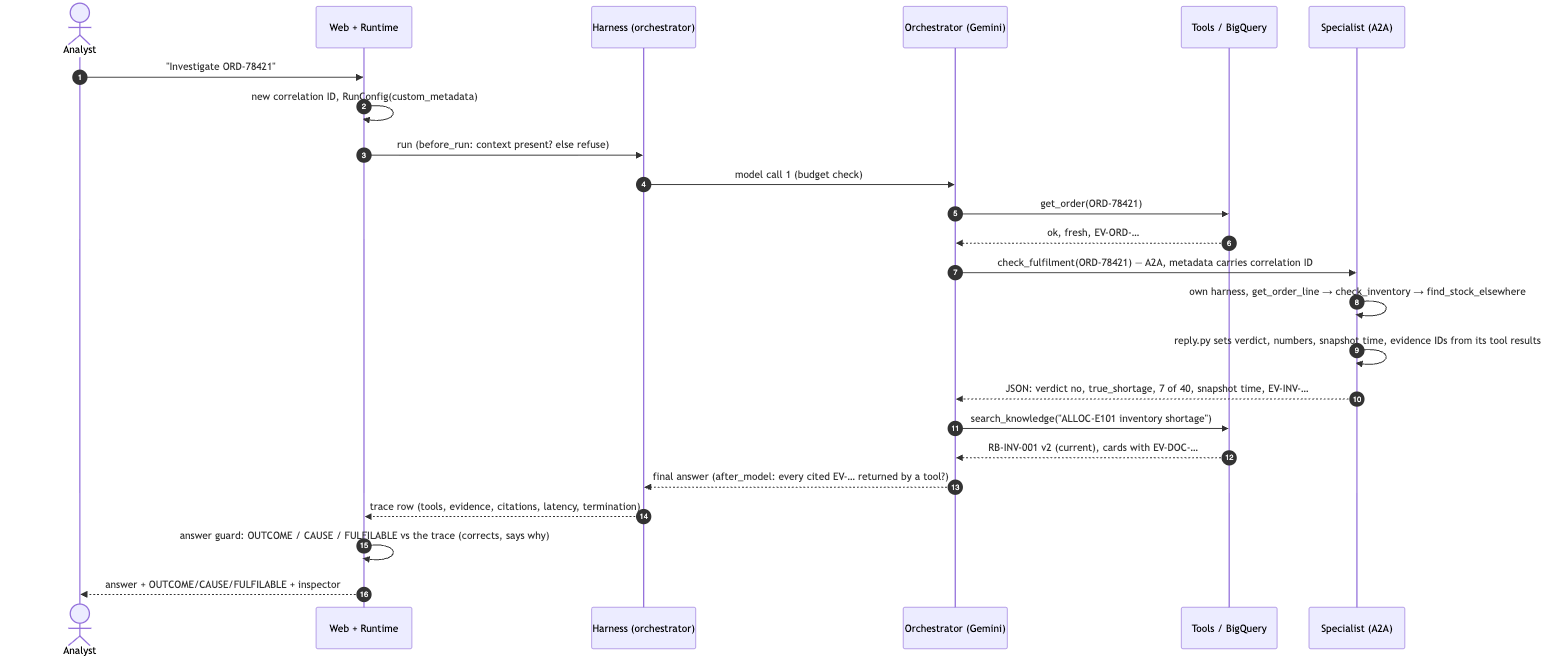
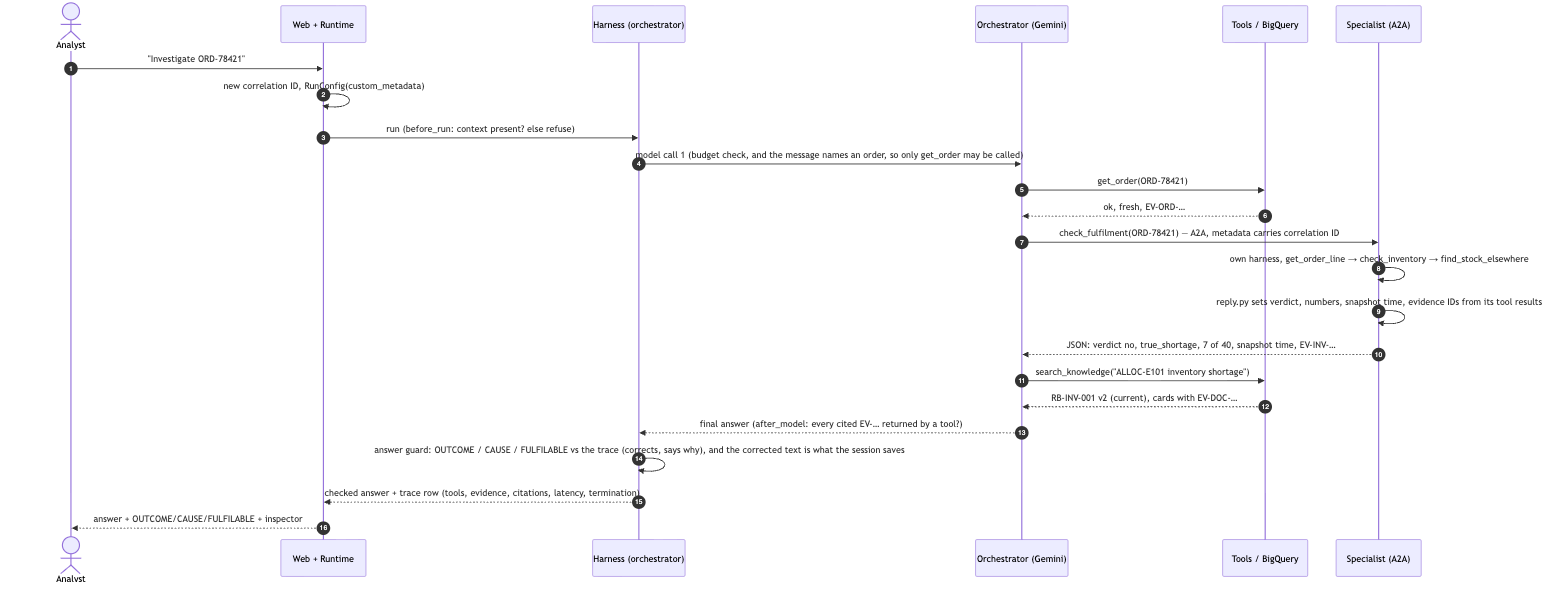
Capstone 02: fresh lookup for a named order, corrected answer is what the session keeps
- fresh_order_lookup (before_model_callback): a message that names an order may only
  call get_order until it has run in that turn; a repeated "Investigate ORD-…" was
  answered from memory with old stock figures
- Answer guard runs as the orchestrator's after_model_callback, so the saved event,
  the session replay and the next turn's history carry the corrected header
- Two offline tests (144 pass), both confirmed on the live app
- Docs: evaluation report, decision sheet, readiness, request-flow diagram;
  number check in answer text recorded as a known gap

diff --git a/1_Basic/session-20-5thNov-Capstone-1/capstone/capstone-submissions/retail-control-tower/orchestrator/order_exception_agent/agent.py b/1_Basic/session-20-5thNov-Capstone-1/capstone/capstone-submissions/retail-control-tower/orchestrator/order_exception_agent/agent.py
@@ -20,6 +20,7 @@ sends no correlation ID, so the harness refuses the request (fails closed).
 from __future__ import annotations
 
 import hashlib
+import re
 
 from google.adk.agents import Agent
 from google.adk.apps import App
@@ -31,6 +32,7 @@ from google.genai import types
 from common import config
 from common.harness import HarnessPlugin
 from orchestrator.a2a_client import make_check_fulfilment
+from orchestrator.answer_guard import make_after_model_check
 from orchestrator.tools import (compare_before_after_change, escalate_case_tool, explain_decline, get_carrier_events,
                                 get_order, get_recent_changes, get_warehouse_events, remember_preference,
                                 search_knowledge)
@@ -56,6 +58,10 @@ How to investigate
    A follow-up about stock, reservations or whether it can ship (e.g. "how many units are
    reserved?") needs a fresh check_fulfilment call: stock is never answered from earlier turns,
    because it changes between turns.
+   A question that names an order and asks to investigate it, or why it is late or stuck, is a
+   NEW investigation, even if this session looked at that order before: run the steps below
+   again. Never repeat an earlier turn's numbers, ages or times as current; they were true when
+   they were read.
 2. Call get_order first. If it returns not_found, answer OUTCOME: not_found and stop.
 3. Choose the checks from the order, not from habit:
    - shipped is true (SHIPPED, OUT_FOR_DELIVERY, DELIVERED): call get_carrier_events.
@@ -189,12 +195,46 @@ SUMMARY_PROMPT = (
 )
 
 
+ORDER_IN_TEXT = re.compile(r"\bORD-\d{5}\b", re.I)
+
+
+def fresh_order_lookup(callback_context, llm_request):
+    """before_model_callback: a message that names an order starts with a fresh get_order.
+
+    Found in a live check: "Investigate ORD-78421", asked again in the same session,
+    was answered from the earlier turn with no tools, repeating its stock figures
+    and snapshot age as current. An instruction line did not stop it, so code
+    does: until get_order has run in this turn, the model may only call get_order
+    (function-calling mode ANY). The rest of the investigation follows from the
+    fresh order, as usual. Messages without an order ID are left alone.
+    """
+    contents = llm_request.contents or []
+    # This turn's analyst message: the last user content with text (tool results are user content too).
+    turn = next((i for i in range(len(contents) - 1, -1, -1) if contents[i].role == "user"
+                 and any(getattr(p, "text", None) for p in contents[i].parts or [])), None)
+    if turn is None:
+        return None
+    message = " ".join(p.text for p in contents[turn].parts or [] if getattr(p, "text", None))
+    if not ORDER_IN_TEXT.search(message):
+        return None
+    if any(getattr(p, "function_response", None) and p.function_response.name == "get_order"
+           for c in contents[turn + 1:] for p in c.parts or []):
+        return None
+    llm_request.config.tool_config = types.ToolConfig(function_calling_config=types.FunctionCallingConfig(
+        mode=types.FunctionCallingConfigMode.ANY, allowed_function_names=["get_order"]))
+    return None
+
+
 def _model(name: str) -> Gemini:
     return Gemini(model=name, retry_options=types.HttpRetryOptions(attempts=3))
 
 
-def build_root_agent(card_url: str | None = None, timeout: float | None = None) -> Agent:
-    """The orchestrator, with check_fulfilment bound to one specialist endpoint."""
+def build_root_agent(card_url: str | None = None, timeout: float | None = None,
+                     harness: HarnessPlugin | None = None) -> Agent:
+    """The orchestrator, with check_fulfilment bound to one specialist endpoint.
+
+    With a harness, the answer guard runs as after_model_callback (see answer_guard.py).
+    """
     return Agent(
         name="order_exception_orchestrator",
         model=_model(config.ORCHESTRATOR_MODEL),
@@ -203,7 +243,9 @@ def build_root_agent(card_url: str | None = None, timeout: float | None = None) 
         tools=[get_order, make_check_fulfilment(card_url, timeout), get_carrier_events, get_warehouse_events,
                get_recent_changes, compare_before_after_change, search_knowledge, escalate_case_tool,
                remember_preference],
+        before_model_callback=fresh_order_lookup,
         after_tool_callback=explain_decline,
+        after_model_callback=make_after_model_check(harness) if harness else None,
         generate_content_config=types.GenerateContentConfig(
             temperature=config.MODEL_TEMPERATURE,
             http_options=types.HttpOptions(timeout=config.MODEL_TIMEOUT_SECONDS * 1000)),
@@ -223,7 +265,7 @@ def build_app(card_url: str | None = None, timeout: float | None = None) -> tupl
         "embedding": f"{config.EMBEDDING_MODEL}@{config.EMBEDDING_DIMENSION}", "ranking": config.RANKING_MODEL})
     app = App(
         name=config.APP_NAME,
-        root_agent=build_root_agent(card_url, timeout),
+        root_agent=build_root_agent(card_url, timeout, harness),
         plugins=[harness],
         events_compaction_config=EventsCompactionConfig(
             compaction_interval=config.COMPACTION_INTERVAL,

diff --git a/1_Basic/session-20-5thNov-Capstone-1/capstone/capstone-submissions/retail-control-tower/tests/test_orchestrator_offline.py b/1_Basic/session-20-5thNov-Capstone-1/capstone/capstone-submissions/retail-control-tower/tests/test_orchestrator_offline.py
@@ -239,6 +239,67 @@ def test_escalation_waits_for_confirmation_and_decline_writes_nothing(monkeypatc
     assert second.trace["parent_correlation_id"] == first.correlation_id
 
 
+def test_the_corrected_answer_is_what_the_session_keeps(monkeypatch):
+    """Found in a live check: the guard fixed the answer the analyst saw, but the session kept the model's
+    original text, so a reopened session and the next turn's history showed the unchecked header."""
+    history = []
+    unproven = say("OUTCOME: cause_named\nCAUSE: inventory_shortage\nFULFILABLE: no\nANSWER: Short of stock.")
+
+    def next_turn(llm_request):
+        history.extend(p.text for c in llm_request.contents for p in (c.parts or []) if p.text)
+        return say("OUTCOME: answer\nCAUSE: none\nFULFILABLE: unknown\nANSWER: See above.")(llm_request)
+
+    # No fulfilment check ran, so neither the cause nor the stock verdict is proven.
+    rt = make_runtime(monkeypatch, [call("get_order", order_id="ORD-78421"), unproven, next_turn])
+
+    async def go():
+        s = await _session(rt)
+        first = await rt.run_turn("analyst_test", s.id, "Investigate ORD-78421.")
+        second = await rt.run_turn("analyst_test", s.id, "And what was the cause?")
+        return first, second, await rt.get_session("analyst_test", s.id)
+
+    first, second, session = run(go())
+    assert first.header == {"outcome": "check_next", "cause": "none", "fulfilable": "unknown"}
+    assert "CHECKED BY CODE:" in first.answer and any("Checked by code" in w for w in first.warnings)
+    replay = [t["text"] for t in rt.transcript(session) if t["role"] == "agent"]
+    assert "FULFILABLE: unknown" in replay[0] and "CHECKED BY CODE:" in replay[0]
+    assert "FULFILABLE: no" not in replay[0]
+    seen_by_model = "\n".join(history)
+    assert "CAUSE: none" in seen_by_model and "CAUSE: inventory_shortage" not in seen_by_model
+
+
+def test_a_message_naming_an_order_starts_with_a_fresh_lookup(monkeypatch):
+    """Found in a live check: asking "Investigate ORD-78421" again was answered from memory, no tools."""
+    modes = []
+
+    def record(step):
+        def wrapped(llm_request):
+            tc = llm_request.config.tool_config
+            fc = tc.function_calling_config if tc else None
+            modes.append((str(fc.mode) if fc else None, list(fc.allowed_function_names or []) if fc else []))
+            return step(llm_request)
+        return wrapped
+
+    answer = say("OUTCOME: answer\nCAUSE: none\nFULFILABLE: unknown\nANSWER: ok")
+    rt = make_runtime(monkeypatch, [
+        record(call("get_order", order_id="ORD-78421")), record(answer),     # turn 1
+        record(call("get_order", order_id="ORD-78421")), record(answer),     # turn 2: same order again
+        record(answer),                                                       # turn 3: no order ID
+    ])
+
+    async def go():
+        s = await _session(rt)
+        for text in ("Investigate ORD-78421.", "Investigate ORD-78421", "And what was the cause?"):
+            await rt.run_turn("analyst_test", s.id, text)
+
+    run(go())
+    forced = [m for m in modes if m[0] and "ANY" in m[0]]
+    assert len(modes) == 5
+    assert modes[0][1] == ["get_order"] and modes[2][1] == ["get_order"]   # each turn naming an order
+    assert len(forced) == 2                                                 # not after get_order, not turn 3
+    assert modes[1][0] is None and modes[3][0] is None and modes[4][0] is None
+
+
 def test_tool_outside_the_allowlist_never_runs(monkeypatch):
     from common.harness import HarnessPlugin
     from common.harness.trace import InvocationTrace

diff --git a/1_Basic/session-20-5thNov-Capstone-1/capstone/capstone-submissions/retail-control-tower/orchestrator/answer_guard.py b/1_Basic/session-20-5thNov-Capstone-1/capstone/capstone-submissions/retail-control-tower/orchestrator/answer_guard.py
@@ -22,7 +22,14 @@ Rules (a correction always moves toward the safer value):
 - no_problem needs the order looked up and not overdue.
 
 A correction rewrites the header line and adds a "CHECKED BY CODE:" line saying
-what changed and why, so the analyst sees it. Follow-up answers (OUTCOME
+what changed and why, so the analyst sees it.
+
+Where it runs: make_after_model_check() is the orchestrator's after_model_callback,
+so the corrected text is what ADK saves as the event. A reopened session shows
+the corrected answer, and the model's next turn reads it in its history. (Run
+after the fact, in the runtime, the analyst saw the correction once, while the
+session kept the model's original text.) The runtime still calls check() itself
+when no model call produced the answer, e.g. a harness stop message. Follow-up answers (OUTCOME
 answer) are only checked for the header and FULFILABLE: their cause may rest
 on an earlier turn's evidence.
 """
@@ -134,3 +141,44 @@ def check(answer: str, header: dict, traces: list[dict]) -> tuple[str, dict, lis
     fulfil_line = LINE["FULFILABLE"].search(text)
     text = text[:fulfil_line.end()] + "\n" + note + text[fulfil_line.end():] if fulfil_line else note + "\n" + text
     return text, h, fixes
+
+
+CHECKED_EVENT = "ANSWER_CHECKED"
+
+
+def make_after_model_check(harness):
+    """after_model_callback for the orchestrator: check the final answer against this run's trace."""
+    from google.genai import types
+
+    def after_model(callback_context, llm_response):
+        content = getattr(llm_response, "content", None)
+        parts = (content.parts if content else None) or []
+        if getattr(llm_response, "partial", False) or any(getattr(p, "function_call", None) for p in parts):
+            return None                                 # a tool call or a streamed piece, not the answer
+        text = "".join(p.text or "" for p in parts if getattr(p, "text", None) and not getattr(p, "thought", False))
+        trace = harness.trace_for(callback_context.invocation_id)
+        if not text.strip() or trace is None:
+            return None
+        row = trace.to_row()
+        if not trace.stopped:
+            row["termination"] = "NORMAL"               # still running; only a real stop counts as stopped
+        parent = harness.finished_trace(trace.request.parent_correlation_id) \
+            if trace.request.parent_correlation_id else None
+        checked, _, fixes = check(text.strip(), parse_header(text), [t for t in (parent, row) if t])
+        trace.add_event(CHECKED_EVENT, fixes=fixes)
+        if not fixes:
+            return None
+        kept = [p for p in parts if getattr(p, "thought", False)]
+        llm_response.content = types.Content(role=content.role or "model", parts=kept + [types.Part(text=checked)])
+        return llm_response
+
+    return after_model
+
+
+HEADER = re.compile(r"^\s*(OUTCOME|CAUSE|FULFILABLE)\s*:\s*([A-Za-z_]+)", re.M)
+
+
+def parse_header(answer: str) -> dict:
+    """{'outcome': ..., 'cause': ..., 'fulfilable': ...} from the fixed answer format (None if missing)."""
+    found = {k.lower(): v.strip().lower() for k, v in HEADER.findall(answer or "")}
+    return {k: found.get(k) for k in ("outcome", "cause", "fulfilable")}

diff --git a/1_Basic/session-20-5thNov-Capstone-1/capstone/capstone-submissions/retail-control-tower/orchestrator/runtime.py b/1_Basic/session-20-5thNov-Capstone-1/capstone/capstone-submissions/retail-control-tower/orchestrator/runtime.py
@@ -17,7 +17,6 @@ Used by web/api.py, orchestrator/cli.py and evals/run_evals.py.
 from __future__ import annotations
 
 import asyncio
-import re
 import uuid
 from dataclasses import asdict, dataclass, field
 from typing import Any, Callable
@@ -30,19 +29,13 @@ from common import config
 from common.harness import REFUSAL_PREFIX, RequestContext
 from common.harness.logs import log_event
 from orchestrator import answer_guard
+from orchestrator.answer_guard import parse_header
 from orchestrator.sessions import build_session_service, effective_app_name
 
 CONFIRMATION_CALL = "adk_request_confirmation"
 # The tools are plain functions that wait on BigQuery and Vertex AI. Without a pool, ADK runs them on the
 # event loop, and one slow query freezes the web app for every analyst. 8 workers per process.
 TOOL_THREADS = 8
-HEADER = re.compile(r"^\s*(OUTCOME|CAUSE|FULFILABLE)\s*:\s*([A-Za-z_]+)", re.M)
-
-
-def parse_header(answer: str) -> dict:
-    """{'outcome': ..., 'cause': ..., 'fulfilable': ...} from the fixed answer format (None if missing)."""
-    found = {k.lower(): v.strip().lower() for k, v in HEADER.findall(answer or "")}
-    return {k: found.get(k) for k in ("outcome", "cause", "fulfilable")}
 
 
 class SessionBusy(Exception):
@@ -193,9 +186,15 @@ class Runtime:
         header = parse_header(answer)
         if pending is None:
             # Code checks the header against what actually happened (this run, and the run it resumes).
-            parent = self.harness.finished_trace(request.parent_correlation_id) \
-                if request.parent_correlation_id else None
-            answer, header, fixes = answer_guard.check(answer, header, [t for t in (parent, trace) if t])
+            # Normally the agent's after_model_callback already did, so the saved answer is the corrected
+            # one; here it only runs when no model call wrote the answer (e.g. a harness stop message).
+            checked = [e for e in (trace or {}).get("events", []) if e.get("kind") == answer_guard.CHECKED_EVENT]
+            if checked:
+                fixes = checked[-1].get("fixes") or []
+            else:
+                parent = self.harness.finished_trace(request.parent_correlation_id) \
+                    if request.parent_correlation_id else None
+                answer, header, fixes = answer_guard.check(answer, header, [t for t in (parent, trace) if t])
             if fixes:
                 warnings.append("Checked by code: " + "; ".join(fixes))
                 log_event("orchestrator", "answer_corrected", correlation_id=request.correlation_id,

diff --git a/1_Basic/session-20-5thNov-Capstone-1/capstone/capstone-submissions/evaluation_report.md b/1_Basic/session-20-5thNov-Capstone-1/capstone/capstone-submissions/evaluation_report.md
@@ -4,13 +4,13 @@
 
 > Run every command from `retail-control-tower/` after `source .venv/bin/activate && source lab.env`.
 >
-> **Status:** 142 offline tests pass. The GCP runs are done: the Gates 2–5 retrieval experiments (section 3) and seven end-to-end runs of the golden set (section 4). Runs 5 and 6 passed the gate; run 7 missed it on facts (0.667 vs 0.7), within the run-to-run variance shown there.
+> **Status:** 144 offline tests pass. The GCP runs are done: the Gates 2–5 retrieval experiments (section 3) and seven end-to-end runs of the golden set (section 4). Runs 5 and 6 passed the gate; run 7 missed it on facts (0.667 vs 0.7), within the run-to-run variance shown there.
 
 ## 1. What is measured
 
 | Layer | How | Command |
 |---|---|---|
-| Code paths, no cloud | 142 offline tests: harness, tools, retrieval logic, A2A contract, API, ingest steps, scoring | `python -m pytest -q tests` |
+| Code paths, no cloud | 144 offline tests: harness, tools, retrieval logic, A2A contract, API, ingest steps, scoring | `python -m pytest -q tests` |
 | Ingest | counts, every document present, 3 probes (paraphrase, exact code, OCR) + superseded never returned | `python -m scripts.ingest_docs` |
 | Retrieval (Gates 2–5) | hit@1, hit@5, MRR, version leaks, latency on 12 retrieval questions | `python -m evals.retrieval_eval [...]` |
 | End to end (Gate 13) | 34 golden cases through the real orchestrator, specialist and BigQuery | `python -m evals.run_evals [--judge] [--allow-writes]` |
@@ -22,7 +22,7 @@
 ## 2. Offline tests
 
 ```text
-142 passed (python -m pytest -q tests), no cloud calls: the cloud clients refuse to start under the tests.
+144 passed (python -m pytest -q tests), no cloud calls: the cloud clients refuse to start under the tests.
 ```
 
 What they prove without GCP: the harness refuses runs without context, blocks loops and budgets, and flags invented evidence IDs; a dead specialist gives a partial answer; a declined escalation writes nothing; stale inventory gives "unknown"; no inventory row isn't zero; the Agent Card shows one skill and no internal tools; a register change invalidates the retrieval cache; ingest fails on a missing PDF, a stale processor ID, a retired parser version or a blank scan.
@@ -160,6 +160,8 @@ The remote-failure cases (R01, R02) fail only on facts: both answers were correc
 - 3 runs per case, gating on the mean;
 - a code check that the answer states the figures the instruction always requires (quantity, on hand / reserved / available, snapshot age, hours overdue), the same way the guard checks the header.
 
+**Known gap (live test, 2026-11-24):** the guard checks the header, not numbers in the text. In one answer the tool reported a snapshot age of 76 minutes and the model wrote "17 minutes old" (it misread the read time's hour). A number check, matching every age, quantity and hour in the answer against the tool results, is the next control to add (production_readiness.md, "Correctness controls").
+
 **Worst failure to watch:** a cause named from stale data or a similar postmortem: I01 (S7) and A08 (S11). In all four runs, no answer named a cause for I01 or a wrong cause for A08. I01 came out `partial` instead of `check_next` in runs 1 and 4; A08 misses only its expected postmortem in retrieval.
 
 ## 5. Manual case C02 (retrieval cache after a new runbook version)
@@ -193,3 +195,5 @@ The remote-failure cases (R01, R02) fail only on facts: both answers were correc
 | The model searched for the change runbook itself and missed it (A06, A07, run 5) | The before/after comparison fetches it in code by register tags (runbook, recent_change); run 7 docs_hit 1.0 |
 | A procedure question got "which order?" back (P02) | The ask-which-order rule limited to questions about one order; exception code added to procedure searches |
 | After the analyst declined an escalation, the answer said "could not be saved at this time" and lost its headings (live web check, 2026-11-24). ADK tells the model `{"error": "This tool call is rejected."}`, which reads as a failure | An `after_tool_callback` (`explain_decline`) replaces it with `status: declined`, "the analyst's choice, not a failure"; an offline test checks what the model sees |
+| "Investigate ORD-78421" asked again in the same session was answered from memory: no tools, the earlier stock figures and snapshot age repeated as current (live test, 2026-11-24). An instruction line did not stop it | `fresh_order_lookup` before_model_callback: a message that names an order may only call `get_order` until it has run in that turn (function-calling mode ANY); the investigation then follows from the fresh order. Offline test, and confirmed on the live app |
+| The guard corrected the answer the analyst saw, but the session kept the model's original text, so a reopened session (and the model's next turn) showed the unchecked header (same live test) | The guard runs as the orchestrator's `after_model_callback`, so the corrected text is the event ADK saves; offline test checks the replay and the next turn's history, and the live replay matched |

diff --git a/1_Basic/session-20-5thNov-Capstone-1/capstone/capstone-submissions/production_readiness.md b/1_Basic/session-20-5thNov-Capstone-1/capstone/capstone-submissions/production_readiness.md
@@ -6,10 +6,10 @@
 
 | Area | Today | Ready? | To production |
 |---|---|---|---|
-| Correctness controls | Evidence IDs checked by the harness; freshness decided in code; postmortems labelled as hints; before/after test in code; the specialist's verdict and numbers set by code; the answer's header checked by code against the trace | ✅ | Add Check Grounding on the free-text inference |
+| Correctness controls | Evidence IDs checked by the harness; freshness decided in code; postmortems labelled as hints; before/after test in code; the specialist's verdict and numbers set by code; the answer's header checked by code against the trace | ✅ | Add a number check (every age, quantity and hour in the text matched to the tool results) and Check Grounding on the free-text inference |
 | Failure handling | Specialist down → partial answer; stale or missing data → unknown; conflict → escalation; budgets block; fail closed without context | ✅ | Alert on partial-answer and stop-reason rates |
 | Write safety | Read-only except escalations; escalation needs analyst confirmation; idempotent | ✅ | Escalations into the real case system (via MCP or its API), not a BigQuery table |
-| Evaluation | 142 offline tests; 34-case golden set run on GCP with a pass/fail gate; retrieval experiments | ⚠ no CI yet | Run tests and the eval gate in CI on every change; add adversarial cases and production samples |
+| Evaluation | 144 offline tests; 34-case golden set run on GCP with a pass/fail gate; retrieval experiments | ⚠ no CI yet | Run tests and the eval gate in CI on every change; add adversarial cases and production samples |
 | Observability | Correlation ID across both services; masked JSON logs; trace row per invocation | ⚠ local files | Cloud Logging + Cloud Trace (OpenTelemetry), dashboards and alerts |
 | Identity and access | Training sign-in (email → salted hash), not authenticated; a signed, expiring token on every API call | ❌ | IAP or the company IdP; user from the verified token; IAM per service account |
 | A2A security | Plain HTTP on localhost, no auth | ❌ | HTTPS, service-to-service auth (ID tokens), security scheme on the Agent Card |

diff --git a/1_Basic/session-20-5thNov-Capstone-1/capstone/capstone-submissions/decision_sheet.md b/1_Basic/session-20-5thNov-Capstone-1/capstone/capstone-submissions/decision_sheet.md
@@ -62,3 +62,5 @@ The completed decision matrix, with where each decision lives in the code and wh
 | Model temperature unset (Gemini 3 default 1.0) | 0 for both agents (`MODEL_TEMPERATURE`) | Measured on the golden set: t = 0 better on cause, outcome, fulfilable, facts and steps, and faster at p95 (22 s vs 31 s) |
 | The model searched for the change runbook itself | The before/after comparison fetches it in code, by register tags (runbook, recent_change), never by ID | Eval run 5: the model reworded its query and missed RB-CHG-006 in A06 and A07 |
 | ADK's bare "This tool call is rejected." after a declined escalation | `explain_decline` callback: "declined by the analyst, nothing saved, not a failure" | Live web check: the model said "could not be saved at this time" and dropped its headings |
+| An order named again in the same session could be answered from memory | Code makes a message that names an order start with a fresh `get_order` (`fresh_order_lookup`) | Live test: old stock figures and snapshot age repeated as current; an instruction line did not stop it |
+| Answer guard applied by the runtime after the run | Guard runs as `after_model_callback`, so the saved answer is the corrected one | Live test: a reopened session showed the model's unchecked header |

diff --git a/1_Basic/session-20-5thNov-Capstone-1/capstone/capstone-submissions/architecture.md b/1_Basic/session-20-5thNov-Capstone-1/capstone/capstone-submissions/architecture.md
@@ -86,7 +86,7 @@ sequenceDiagram
     A->>W: "Investigate ORD-78421"
     W->>W: new correlation ID, RunConfig(custom_metadata)
     W->>H: run (before_run: context present? else refuse)
-    H->>O: model call 1 (budget check)
+    H->>O: model call 1 (budget check, and the message names an order, so only get_order may be called)
     O->>T: get_order(ORD-78421)
     T-->>O: ok, fresh, EV-ORD-…
     O->>S: check_fulfilment(ORD-78421) — A2A, metadata carries correlation ID
@@ -96,8 +96,8 @@ sequenceDiagram
     O->>T: search_knowledge("ALLOC-E101 inventory shortage")
     T-->>O: RB-INV-001 v2 (current), cards with EV-DOC-…
     O-->>H: final answer (after_model: every cited EV-… returned by a tool?)
-    H-->>W: trace row (tools, evidence, citations, latency, termination)
-    W->>W: answer guard: OUTCOME / CAUSE / FULFILABLE vs the trace (corrects, says why)
+    H->>H: answer guard: OUTCOME / CAUSE / FULFILABLE vs the trace (corrects, says why), and the corrected text is what the session saves
+    H-->>W: checked answer + trace row (tools, evidence, citations, latency, termination)
     W-->>A: answer + OUTCOME/CAUSE/FULFILABLE + inspector
 ```
 

diff --git a/1_Basic/session-20-5thNov-Capstone-1/capstone/capstone-submissions/retail-control-tower/README.md b/1_Basic/session-20-5thNov-Capstone-1/capstone/capstone-submissions/retail-control-tower/README.md
@@ -12,7 +12,7 @@ Capstone 02 (session 20). An analyst asks why an order is delayed. The system in
 
 ## Status
 
-Built, run on GCP and evaluated (2026-11-23 and 24). **142 offline tests pass** (`python -m pytest -q tests`).
+Built, run on GCP and evaluated (2026-11-23 and 24). **144 offline tests pass** (`python -m pytest -q tests`).
 
 | Step | What | Status |
 |---|---|---|
